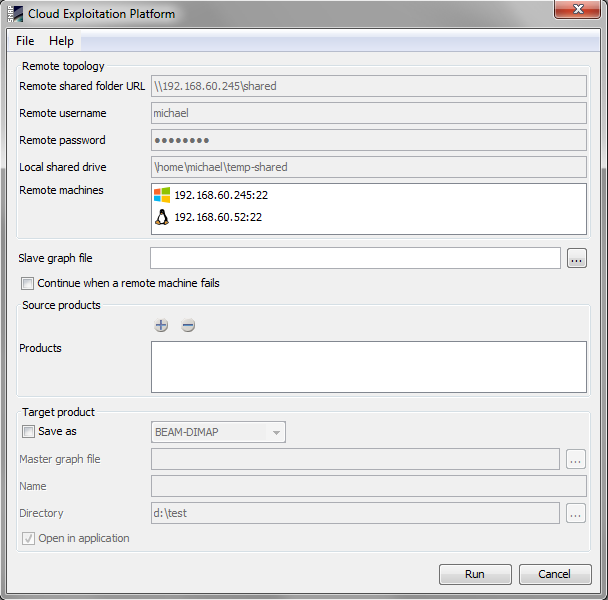
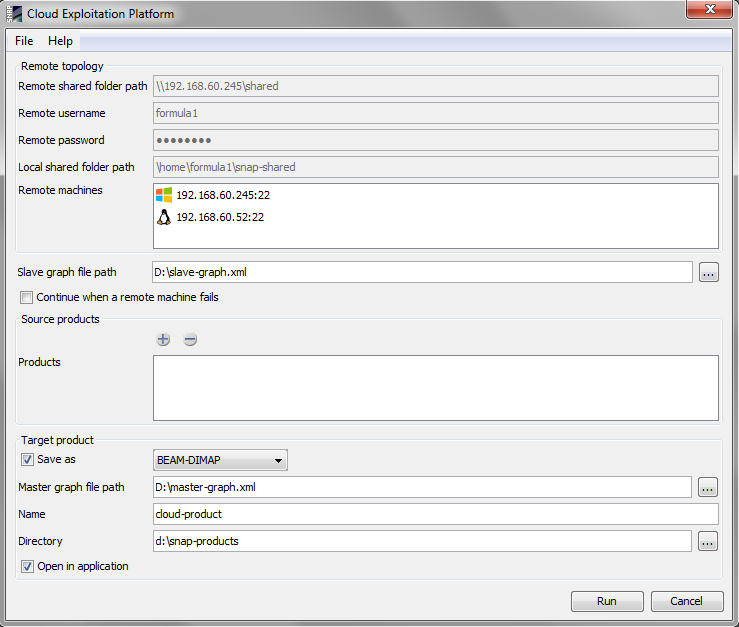
Update help html file of the Cloud Exploitation Platform operator.

Changed region(s): [[0.0, 0.0, 1.0, 1.0]]

diff --git a/snap-cloud-exploitation-platform-ui/src/main/resources/org/esa/snap/cloud/exploitation/platform/docs/CloudExploitationPlatformProcessor.html b/snap-cloud-exploitation-platform-ui/src/main/resources/org/esa/snap/cloud/exploitation/platform/docs/CloudExploitationPlatformProcessor.html
@@ -25,16 +25,16 @@
 <table class="header">
     <tr class="header">
         <td class="header">&nbsp;
-            Forest Cover Change Processor</td>
+            Cloud Exploitation Platform Processor</td>
         <td class="header" align="right"><a href="nbdocs://org.esa.snap.snap.help/org/esa/snap/snap/help/docs/general/overview/SnapOverview.html"><img src="images/snap_header.jpg" border=0></a></td>
     </tr>
 </table>
 
 <p><br/></p>
 <p>
-    The Cloud Exploitation Platform Processor is a multi-steps iterative process that executes on the remote machines a graph and then on the host machine it executes another graph using the products created by the remote machines.
+    The Cloud Exploitation Platform Processor is a multi-steps iterative process that executes on the remote machines a slave graph and then on the host machine it executes a master graph using the products created by the remote machines.
 	
-    The overall principle of the algorithm is to distribute processing and reduce the time when running executing a graph.	
+    The overall principle of the algorithm is to distribute processing and reduce the time when running a graph.	
 </p>
 <p>
     The two major steps are:
@@ -48,22 +48,21 @@
     (ii) use the output products obtained in the previous step together with a another graph to create the final product.
 </p>
 <p>
-    The products executed on the remote machine must be placed on a shared folder. Each remote machine must have installed the SSH server and the GPT application. When running a graph on a remote machine, the output products is placed in the same shared folder.
+    The products executed on the remote machines must be placed into a shared folder. Each remote machine must have installed the SSH server and the GPT application. When running a graph on a remote machine, the output product is placed in the same shared folder.
 </p>
 
 
 <h4>Remote topology dialog</h4>
 
 <p>
-    The remote topology dialog contains the properties used to access the shared folder and the remote machines for processing a graph.
-	The products executed on the remote machine must be placed on a shared folder. Each remote machine must have installed the SSH server and the GPT application. When running a graph on a remote machine, the output products is placed in the same shared folder.
+    The remote topology dialog is placed in the Tools menu. It contains the properties used to access the shared folder and the remote machines for processing a graph.
 </p>
 
 <table border="0">
     <tr>
         <td style="border-width:0;" valign="top">
             <p class="i1">
-                <b>Remote shared folder URL</b>
+                <b>Remote shared folder path</b>
                 Specify the shared folder containing the source products used to process the slave graph on the remote machines. After processing the slave graph on a remote machine the output product is placed in this folder.
             </p>
             <p class="i1">
@@ -75,7 +74,7 @@
                 Specify the password to connect to the remote shared folder.				
             </p>
             <p class="i1">
-                <b>Local shared folder</b>
+                <b>Local shared folder path</b>
                 Specify the folder on the host machine used to connect to the remote shared folder in order to select the source product to process the slave graph on the remote machines. The property is optional if the processor
 				is running on a machine with Windows operating system.
             </p>
@@ -93,7 +92,8 @@
 <h4>Remote machine dialog</h4>
 
 <p>
-    The remote machine dialog contains the properties used to access a machine by means of the SSH protocol and process a slave graph on the GPT application.
+    The remote machine dialog contains the properties used to access a machine by means of the SSH protocol and process a slave graph using the GPT application installed on that machine. The dialog window can be accessed
+	by means of the add/edit buttons from the remote topology dialog.
 </p>
 
 <table border="0">
@@ -115,16 +115,16 @@
             </p>
 
             <p class="i1">
-                <b>User name</b>
+                <b>Username</b>
                 Specify the username to connect to the remote machine.
             </p>
             <p class="i1">
-                <b>User name</b>
+                <b>Password</b>
                 Specify the password to connect to the remote machine.
             </p>
             <p class="i1">
                 <b>GPT file path</b>
-                Specify the path of the 'gpt' file to start the GPT application. If the properties is not specified then the 'PATH' environment variable is used to find the GPT application.
+                Specify the path of the 'gpt' file to start the GPT application. If the property is not specified then the 'PATH' environment variable is used to find the GPT application.
             </p>
             <p class="i1">
                 <b>Shared folder path</b>
@@ -144,7 +144,7 @@
 <h4>Cloud exploitation platform dialog</h4>
 
 <p>
-    The cloud exploitation platform dialog contains the properties used to execute the processor.
+	The cloud exploitation platform dialog is placed in the Tools menu. It the properties used to execute the processor.
 </p>
 
 <table border="0">
@@ -153,20 +153,43 @@
             <h5>Remote topology</h5>
 
             <p class="i1">
+                <b>Remote shared folder path</b>
+                Specify the shared folder containing the source products used to process the slave graph on the remote machines. After processing the slave graph on a remote machine the output product is placed in this folder.
+            </p>			
+            <p class="i1">
+                <b>Remote username</b>
+                Specify the username to connect to the remote shared folder.				
+            </p>			
+            <p class="i1">
+                <b>Remote password</b>
+                Specify the password to connect to the remote shared folder.				
+            </p>			
+            <p class="i1">
+                <b>Local shared folder path</b>
+                Specify the folder on the host machine used to connect to the remote shared folder in order to select the source product to process the slave graph on the remote machines. The property is optional if the processor
+				is running on a machine with Windows operating system.
+            </p>
+            <p class="i1">
                 <b>Remote machines</b>
                 Specify the remote machines used to process the slave graph.
             </p>
 
-            <p class="i1">
-                <b>Slave graph file</b>
-                Specify the graph file to be processed on the selected remote machines.
-            </p>
+			<br />
+			<br />
+			
+			&nbsp;
+            <b>Slave graph file</b>
+            Specify the graph file to be processed on the selected remote machines.
+			
+			<br />
+			<br />
+			
+			&nbsp;
+            <b>Continue when a remote machine fails</b>
+            Specify if the executing can continue when a remote machine throws an error while processing the slave graph.
 
-            <p class="i1">
-                <b>Continue when a remote machine fails</b>
-                Specify if the executing can continue when a remote machine throws an error while processing the slave graph.
-            </p>
-
+			<br />
+			
             <h5>Source products</h5>
 			
             <p class="i1">
@@ -199,7 +222,7 @@
 			
             <p class="i1">
                 <b>Open in application</b>
-                Used to specify whether the target product should be opened in the Sentinel Toolbox.
+                Used to specify whether the target product should be opened in the SNAP application.
             </p>
         </td>
         <td style="border-width:0;" valign="top">

diff --git a/snap-cloud-exploitation-platform-ui/src/main/java/org/esa/snap/cloud/exploitation/platform/operator/CloudExploitationPlatformDialog.java b/snap-cloud-exploitation-platform-ui/src/main/java/org/esa/snap/cloud/exploitation/platform/operator/CloudExploitationPlatformDialog.java
@@ -474,7 +474,7 @@ public class CloudExploitationPlatformDialog extends AbstractModalDialog {
 
         JLabel targetProductNameLabel = new JLabel("Name");
         JLabel targetProductFolderLabel = new JLabel("Directory");
-        JLabel masterGraphFileLabel = new JLabel("Master graph file");
+        JLabel masterGraphFileLabel = new JLabel("Master graph file path");
 
         this.targetProductEnabledComponents = new ArrayList<JComponent>();
         this.targetProductEnabledComponents.add(this.targetProductFormatNameComboBox);
@@ -566,7 +566,7 @@ public class CloudExploitationPlatformDialog extends AbstractModalDialog {
         JPanel panel = new JPanel(new GridBagLayout());
 
         GridBagConstraints c = SwingUtils.buildConstraints(0, 0, GridBagConstraints.NONE, GridBagConstraints.WEST, 1, 1, 0, 0);
-        panel.add(new JLabel("Slave graph file"), c);
+        panel.add(new JLabel("Slave graph file path"), c);
 
         c = SwingUtils.buildConstraints(1, 0, GridBagConstraints.HORIZONTAL, GridBagConstraints.WEST, 1, 1, 0, gapBetweenColumns);
         panel.add(filePathTextField, c);

diff --git a/snap-cloud-exploitation-platform-ui/src/main/java/org/esa/snap/cloud/exploitation/platform/topology/RemoteTopologyPanel.java b/snap-cloud-exploitation-platform-ui/src/main/java/org/esa/snap/cloud/exploitation/platform/topology/RemoteTopologyPanel.java
@@ -85,7 +85,7 @@ public abstract class RemoteTopologyPanel extends JPanel {
         int columnSpan = (browseButtonVisible) ? 1 : 2;
 
         GridBagConstraints c = SwingUtils.buildConstraints(0, rowIndex, GridBagConstraints.NONE, GridBagConstraints.WEST, 1, 1, gapBetweenRows, 0);
-        add(new JLabel("Remote shared folder URL"), c);
+        add(new JLabel("Remote shared folder path"), c);
         c = SwingUtils.buildConstraints(1, rowIndex, GridBagConstraints.HORIZONTAL, GridBagConstraints.WEST, columnSpan, 1, gapBetweenRows, gapBetweenColumns);
         add(this.remoteSharedFolderURLTextField, c);
         if (browseButtonVisible) {

diff --git a/snap-cloud-exploitation-platform-ui/src/main/java/org/esa/snap/cloud/exploitation/platform/topology/MacRemoteTopologyPanel.java b/snap-cloud-exploitation-platform-ui/src/main/java/org/esa/snap/cloud/exploitation/platform/topology/MacRemoteTopologyPanel.java
@@ -36,7 +36,7 @@ public class MacRemoteTopologyPanel extends RemoteTopologyPanel {
         addSharedFolderURLRow(0, gapBetweenColumns,0, addSharedFolderBrowseButton);
         addUsernameRow(1, gapBetweenColumns, gapBetweenRows);
         addPasswordRow(2, gapBetweenColumns, gapBetweenRows);
-        addLocalSharedFolderRow(3, gapBetweenColumns, gapBetweenRows, addSharedFolderBrowseButton, "Local shared folder");
+        addLocalSharedFolderRow(3, gapBetweenColumns, gapBetweenRows, addSharedFolderBrowseButton, "Local shared folder path");
         addRemoteMachinesRow(4, gapBetweenColumns, gapBetweenRows, addToolbarButtons);
     }
 }
